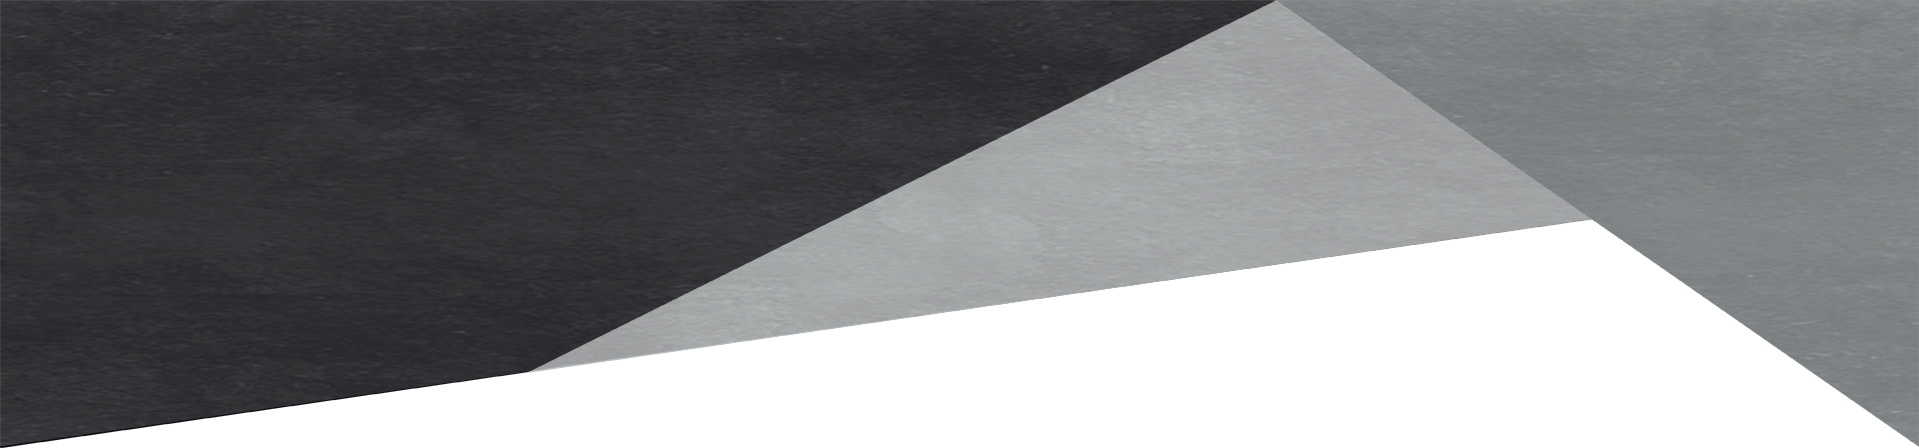
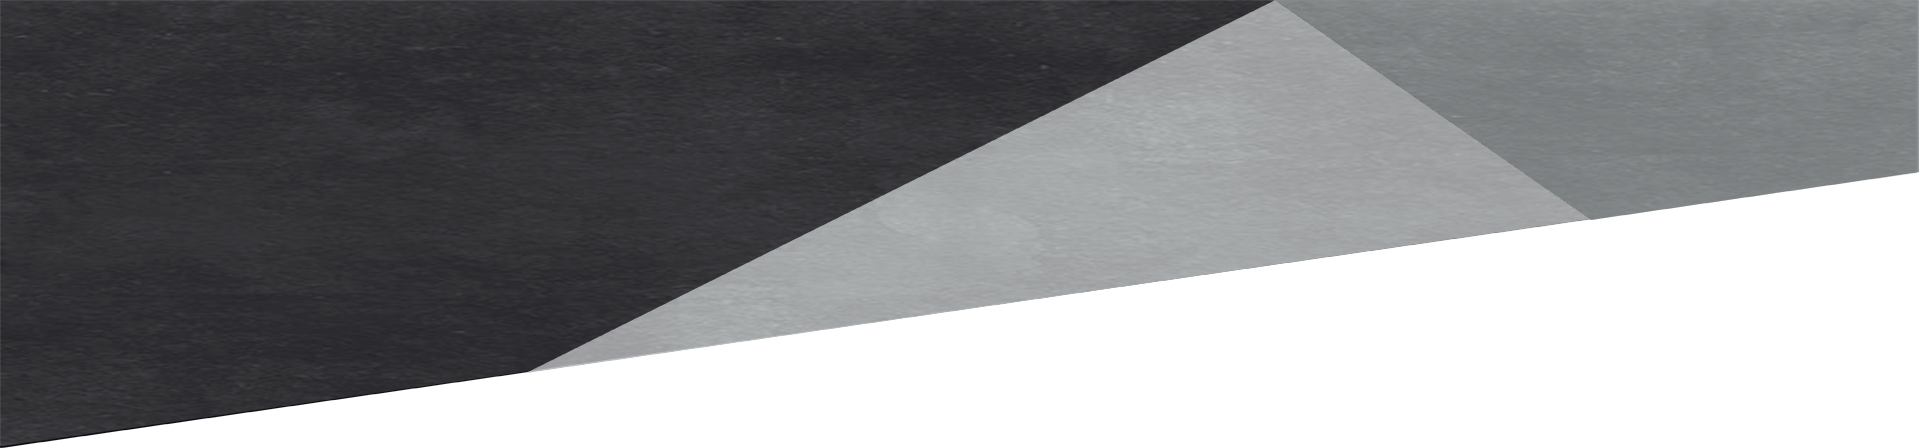
Ajuste background rosa

Changed region(s): [[0.8301, 0.375, 1.0, 1.0]]

diff --git a/src/styles/global.js b/src/styles/global.js
@@ -1,6 +1,7 @@
 import { createGlobalStyle } from 'styled-components';
 
 import background from '../assets/images/background.png';
+import bg from '../assets/images/bg-rosa.png';
 
 export default createGlobalStyle`
 
@@ -18,7 +19,7 @@ export default createGlobalStyle`
  }
 
  body{
-     background: #c9abab url(${background}) no-repeat center top;
+     background: url(${background}) no-repeat center top, url(${bg}) repeat right bottom ;
      -webkit-font-smoothing: antialiased !important;
  }
 
